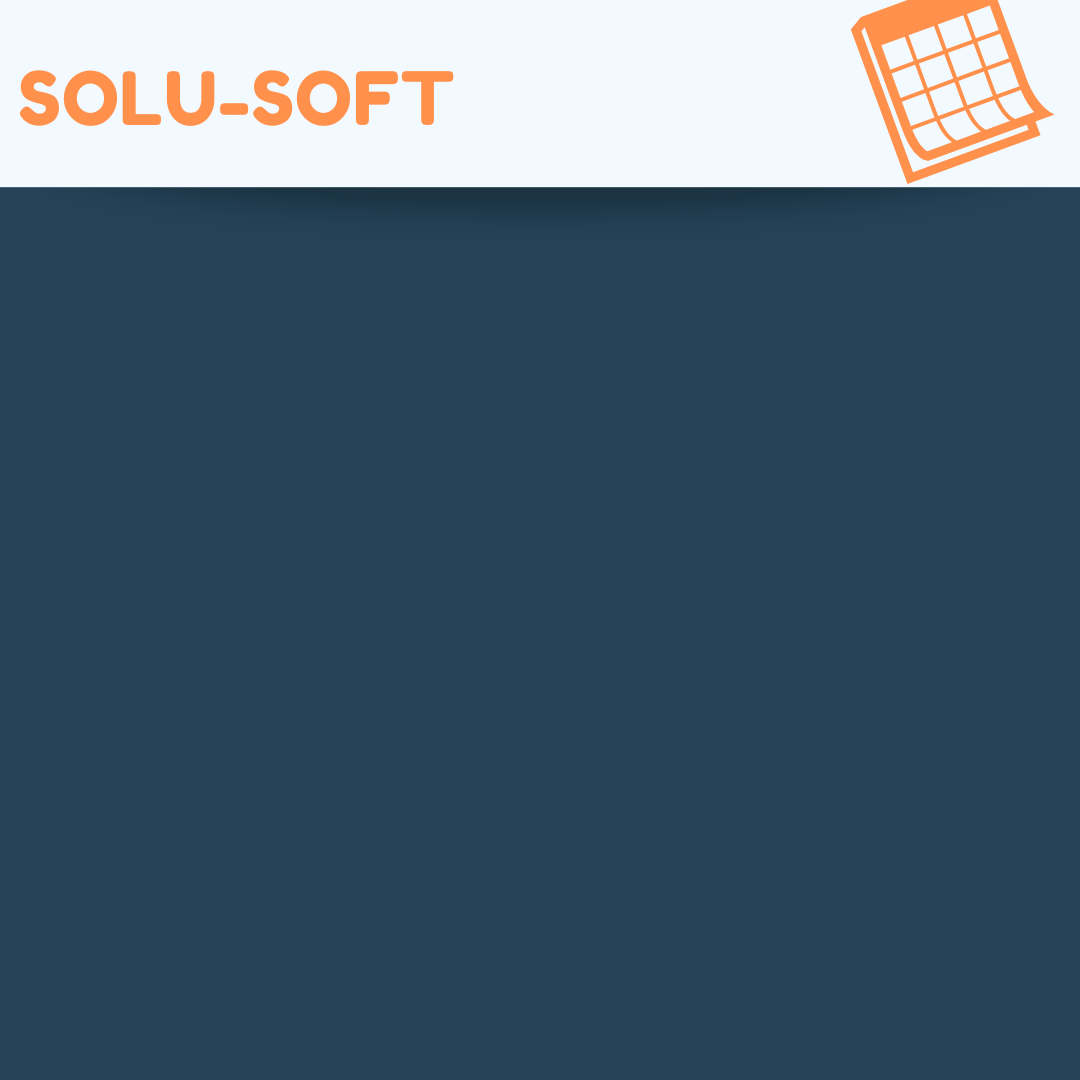
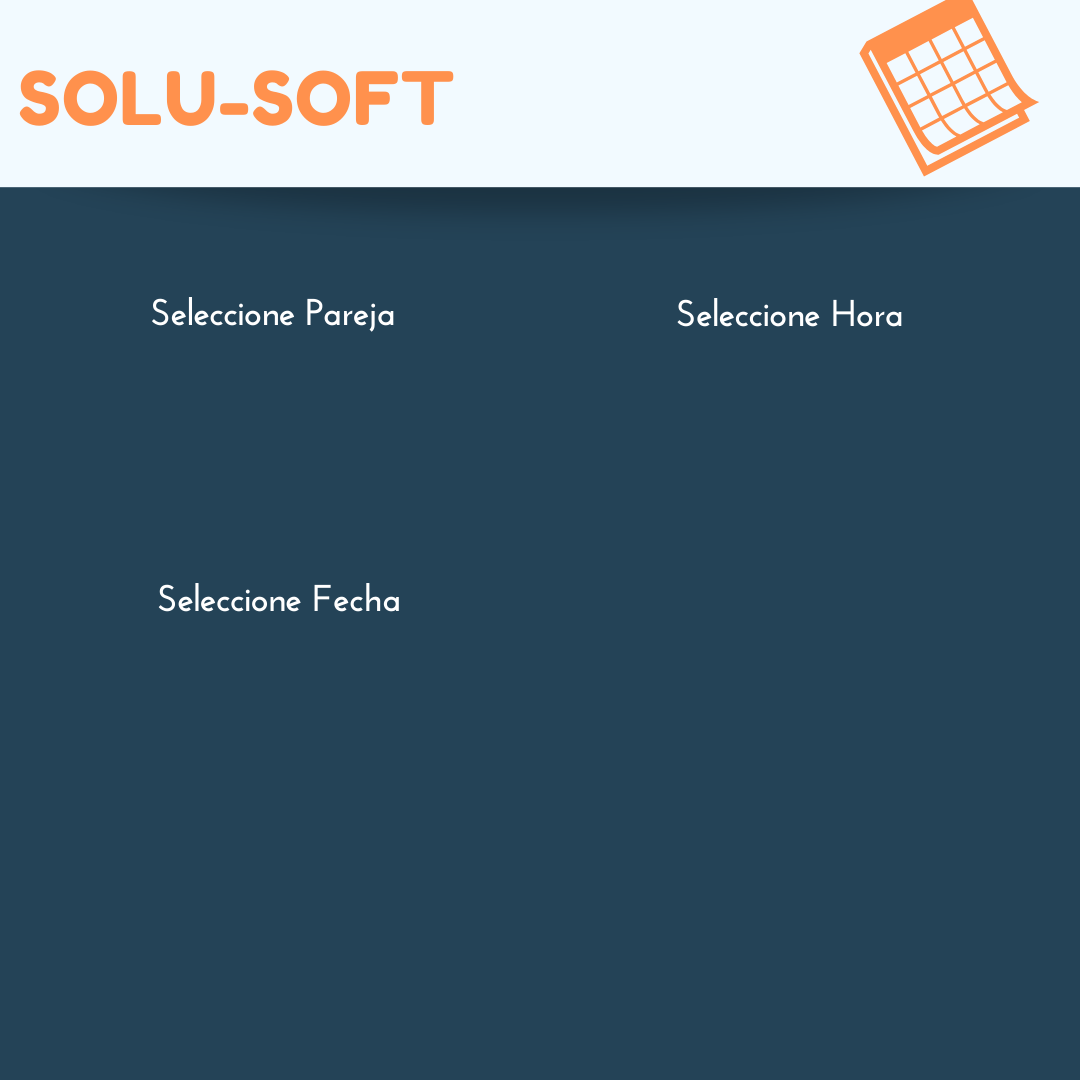
avnkdjlkad

diff --git a/src/co/edu/unbosque/view/PanelAsignarHorario.java b/src/co/edu/unbosque/view/PanelAsignarHorario.java
@@ -10,20 +10,23 @@ import javax.swing.ImageIcon;
 import javax.swing.JButton;
 import javax.swing.JComboBox;
 import javax.swing.JPanel;
+import javax.swing.JSpinner;
+import javax.swing.SpinnerDateModel;
 
 import com.toedter.calendar.JDateChooser;
 
 public class PanelAsignarHorario extends JPanel {
 
 	private static final long serialVersionUID = 1L;
-	private JComboBox<Object> combobox_tiendas, combobox_parejas;
+	private JComboBox<Object> combobox_parejas;
 	private JDateChooser calendario;
-	private JButton boton_agregar;
+	private JButton boton_agregar_horario, boton_seleccionar_tienda;
 	private String nombre;
-	private ImageIcon imagen, imagen_boton;
-	private Icon icon_boton;
+	private ImageIcon imagen, imagen_boton, imagen_boton_tienda;
+	private Icon icon_boton, icon_boton_tienda;
 	private Color color_azul = new Color(36, 67, 87);
 	private Color color_naranja = new Color(255, 145, 77);
+	private JSpinner spinner;
 
 	public PanelAsignarHorario(String nombre) {
 		this.nombre = nombre;
@@ -45,33 +48,42 @@ public class PanelAsignarHorario extends JPanel {
 
 	public void inicializarComponentes() {
 
-		combobox_tiendas = new JComboBox<Object>();
-		combobox_tiendas.setBounds(110, 190, 200, 30);
-		combobox_tiendas.setBackground(Color.white);
-		combobox_tiendas.setForeground(color_naranja);
-		add(combobox_tiendas);
-
 		combobox_parejas = new JComboBox<Object>();
-		combobox_parejas.setBounds(110, 285, 200, 30);
+		combobox_parejas.setBounds(100, 210, 200, 30);
 		combobox_parejas.setBackground(Color.white);
 		combobox_parejas.setForeground(color_naranja);
 		add(combobox_parejas);
 
-		boton_agregar = new JButton();
-		boton_agregar.setBounds(130, 380, 150, 30);
-		add(boton_agregar);
+		boton_agregar_horario = new JButton();
+		boton_agregar_horario.setBounds(490, 400, 175, 30);
+		add(boton_agregar_horario);
 
 		imagen_boton = new ImageIcon(getClass().getResource("/co/edu/unbosque/imagenes/boton_agregar_horario.png"));
-		icon_boton = new ImageIcon(imagen_boton.getImage().getScaledInstance(180, 30, Image.SCALE_SMOOTH));
+		icon_boton = new ImageIcon(imagen_boton.getImage().getScaledInstance(185, 30, Image.SCALE_SMOOTH));
 
-	}
+		boton_seleccionar_tienda = new JButton("Seleccionar Tienda");
+		boton_seleccionar_tienda.setBounds(490, 330, 175, 30);
+		add(boton_seleccionar_tienda);
 
-	public JComboBox<Object> getCombobox_tiendas() {
-		return combobox_tiendas;
-	}
+		imagen_boton_tienda = new ImageIcon(
+				getClass().getResource("/co/edu/unbosque/imagenes/boton_seleccionar_tienda.png"));
+		icon_boton_tienda = new ImageIcon(
+				imagen_boton_tienda.getImage().getScaledInstance(185, 30, Image.SCALE_SMOOTH));
 
-	public void setCombobox_tiendas(JComboBox<Object> combobox_tiendas) {
-		this.combobox_tiendas = combobox_tiendas;
+		calendario = new JDateChooser("dd-MM-yyyy", "####-##-##", '_');
+		calendario.setBounds(100, 360, 200, 30);
+		calendario.setForeground(color_naranja);
+		calendario.setOpaque(true);
+		calendario.setBackground(Color.WHITE);
+		calendario.setDateFormatString("dd-MM-yyyy");
+		add(calendario);
+
+		spinner = new JSpinner();
+		spinner.setModel(new SpinnerDateModel());
+		spinner.setEditor(new JSpinner.DateEditor(spinner, "HH:mm"));
+		spinner.setBounds(480, 210, 200, 30);
+		add(spinner);
+
 	}
 
 	public JComboBox<Object> getCombobox_parejas() {
@@ -94,12 +106,12 @@ public class PanelAsignarHorario extends JPanel {
 		return serialVersionUID;
 	}
 
-	public JButton getBoton_agregar() {
-		return boton_agregar;
+	public JButton getBoton_agregar_horario() {
+		return boton_agregar_horario;
 	}
 
-	public void setBoton_agregar(JButton boton_agregar) {
-		this.boton_agregar = boton_agregar;
+	public void setBoton_agregar_horario(JButton boton_agregar) {
+		this.boton_agregar_horario = boton_agregar;
 	}
 
 	public String getNombre() {
@@ -148,6 +160,30 @@ public class PanelAsignarHorario extends JPanel {
 
 	public void setIcon_boton(Icon icon_boton) {
 		this.icon_boton = icon_boton;
+	}
+
+	public JButton getBoton_seleccionar_tienda() {
+		return boton_seleccionar_tienda;
+	}
+
+	public void setBoton_seleccionar_tienda(JButton boton_seleccionar_tienda) {
+		this.boton_seleccionar_tienda = boton_seleccionar_tienda;
+	}
+
+	public ImageIcon getImagen_boton_tienda() {
+		return imagen_boton_tienda;
+	}
+
+	public void setImagen_boton_tienda(ImageIcon imagen_boton_tienda) {
+		this.imagen_boton_tienda = imagen_boton_tienda;
+	}
+
+	public Icon getIcon_boton_tienda() {
+		return icon_boton_tienda;
+	}
+
+	public void setIcon_boton_tienda(Icon icon_boton_tienda) {
+		this.icon_boton_tienda = icon_boton_tienda;
 	}
 
 }

diff --git a/src/co/edu/unbosque/view/PanelAdmCuentas.java b/src/co/edu/unbosque/view/PanelAdmCuentas.java
@@ -15,15 +15,15 @@ import javax.swing.JPanel;
 public class PanelAdmCuentas extends JPanel {
 
 	private static final long serialVersionUID = 1L;
-	
-	//holajkfajdlfkjalkdsfje
+
+	// holajkfajdlfkjalkdsfje
 
 	private String nombre;
 	private ImageIcon imagen, imagen_ojo_oculto, imagen_ojo, imagen_boton_agregar, imagen_boton_info;
-	private JButton boton_agregar, boton_info;
+	private JButton boton_agregar_pareja, boton_info_pareja;
 	private JLabel label_tarjeta, label_cupo;
 	private Icon icono_ojo_oculto, icono_ojo, icono_boton_agregar, icono_boton_info;
-	private JButton boton_ojo_oculto, boton_ojo;
+	private JButton boton_ojo_oculto;
 
 	public PanelAdmCuentas(String nombre) {
 		this.nombre = nombre;
@@ -69,17 +69,22 @@ public class PanelAdmCuentas extends JPanel {
 		imagen_ojo_oculto = new ImageIcon(getClass().getResource("/co/edu/unbosque/imagenes/ojo oculto.png"));
 		icono_ojo_oculto = new ImageIcon(imagen_ojo_oculto.getImage().getScaledInstance(50, 50, Image.SCALE_SMOOTH));
 
-		boton_agregar = new JButton();
-		boton_agregar.setBounds(60, 440, 300, 30);
-		add(boton_agregar);
+		imagen_ojo = new ImageIcon(getClass().getResource("/co/edu/unbosque/imagenes/ojo.png"));
+		icono_ojo = new ImageIcon(imagen_ojo.getImage().getScaledInstance(50, 50, Image.SCALE_SMOOTH));
 
-		boton_info = new JButton();
-		boton_info.setBounds(420, 440, 300, 30);
-		add(boton_info);
-		
-		imagen_boton_agregar = new ImageIcon(getClass().getResource("/co/edu/unbosque/imagenes/boton_agregar_pareja.png"));
-		icono_boton_agregar = new ImageIcon(imagen_boton_agregar.getImage().getScaledInstance(300, 30, Image.SCALE_SMOOTH));
-		
+		boton_agregar_pareja = new JButton();
+		boton_agregar_pareja.setBounds(60, 440, 300, 30);
+		add(boton_agregar_pareja);
+
+		boton_info_pareja = new JButton();
+		boton_info_pareja.setBounds(420, 440, 300, 30);
+		add(boton_info_pareja);
+
+		imagen_boton_agregar = new ImageIcon(
+				getClass().getResource("/co/edu/unbosque/imagenes/boton_agregar_pareja.png"));
+		icono_boton_agregar = new ImageIcon(
+				imagen_boton_agregar.getImage().getScaledInstance(300, 30, Image.SCALE_SMOOTH));
+
 		imagen_boton_info = new ImageIcon(getClass().getResource("/co/edu/unbosque/imagenes/boton_ver_info.png"));
 		icono_boton_info = new ImageIcon(imagen_boton_info.getImage().getScaledInstance(300, 30, Image.SCALE_SMOOTH));
 
@@ -101,20 +106,20 @@ public class PanelAdmCuentas extends JPanel {
 		this.imagen = imagen;
 	}
 
-	public JButton getBoton_agregar() {
-		return boton_agregar;
+	public JButton getBoton_agregar_pareja() {
+		return boton_agregar_pareja;
 	}
 
-	public void setBoton_agregar(JButton boton_agregar) {
-		this.boton_agregar = boton_agregar;
+	public void setBoton_agregar_pareja(JButton boton_agregar_pareja) {
+		this.boton_agregar_pareja = boton_agregar_pareja;
 	}
 
-	public JButton getBoton_info() {
-		return boton_info;
+	public JButton getBoton_info_pareja() {
+		return boton_info_pareja;
 	}
 
-	public void setBoton_info(JButton boton_info) {
-		this.boton_info = boton_info;
+	public void setBoton_info_pareja(JButton boton_info_pareja) {
+		this.boton_info_pareja = boton_info_pareja;
 	}
 
 	public static long getSerialversionuid() {
@@ -175,14 +180,6 @@ public class PanelAdmCuentas extends JPanel {
 
 	public void setBoton_ojo_oculto(JButton boton_ojo_oculto) {
 		this.boton_ojo_oculto = boton_ojo_oculto;
-	}
-
-	public JButton getBoton_ojo() {
-		return boton_ojo;
-	}
-
-	public void setBoton_ojo(JButton boton_ojo) {
-		this.boton_ojo = boton_ojo;
 	}
 
 	public ImageIcon getImagen_boton_agregar() {

diff --git a/src/co/edu/unbosque/view/PanelAgregarPareja.java b/src/co/edu/unbosque/view/PanelAgregarPareja.java
@@ -1,0 +1,56 @@
+package co.edu.unbosque.view;
+
+import java.awt.Dimension;
+import java.awt.Graphics;
+
+import javax.swing.ImageIcon;
+import javax.swing.JPanel;
+
+public class PanelAgregarPareja extends JPanel {
+
+	private static final long serialVersionUID = 1L;
+
+	private String nombre;
+	private ImageIcon imagen;
+
+	public PanelAgregarPareja(String nombre) {
+		this.nombre = nombre;
+		setLayout(null);
+		inicializarComponentes();
+		setVisible(false);
+	}
+
+	public void paint(Graphics g) {
+
+		Dimension tamano = getSize();
+		imagen = new ImageIcon(getClass().getResource(nombre));
+		g.drawImage(imagen.getImage(), 0, 0, tamano.width, tamano.height, null);
+		setOpaque(false);
+		super.paint(g);
+	}
+
+	public void inicializarComponentes() {
+
+	}
+
+	public String getNombre() {
+		return nombre;
+	}
+
+	public void setNombre(String nombre) {
+		this.nombre = nombre;
+	}
+
+	public ImageIcon getImagen() {
+		return imagen;
+	}
+
+	public void setImagen(ImageIcon imagen) {
+		this.imagen = imagen;
+	}
+
+	public static long getSerialversionuid() {
+		return serialVersionUID;
+	}
+
+}

diff --git a/src/co/edu/unbosque/view/Ventana.java b/src/co/edu/unbosque/view/Ventana.java
@@ -25,11 +25,11 @@ public class Ventana extends JFrame {
 		
 //		add(panel1);
 		
-//		panel_us_inicio = new PanelUsuarioInicio();
-//		add(panel_us_inicio);
+		panel_us_inicio = new PanelUsuarioInicio();
+		add(panel_us_inicio);
 		
-		panel_admin = new PanelAdminInicio();
-		add(panel_admin);
+//		panel_admin = new PanelAdminInicio();
+//		add(panel_admin);
 //	
 
 	}
